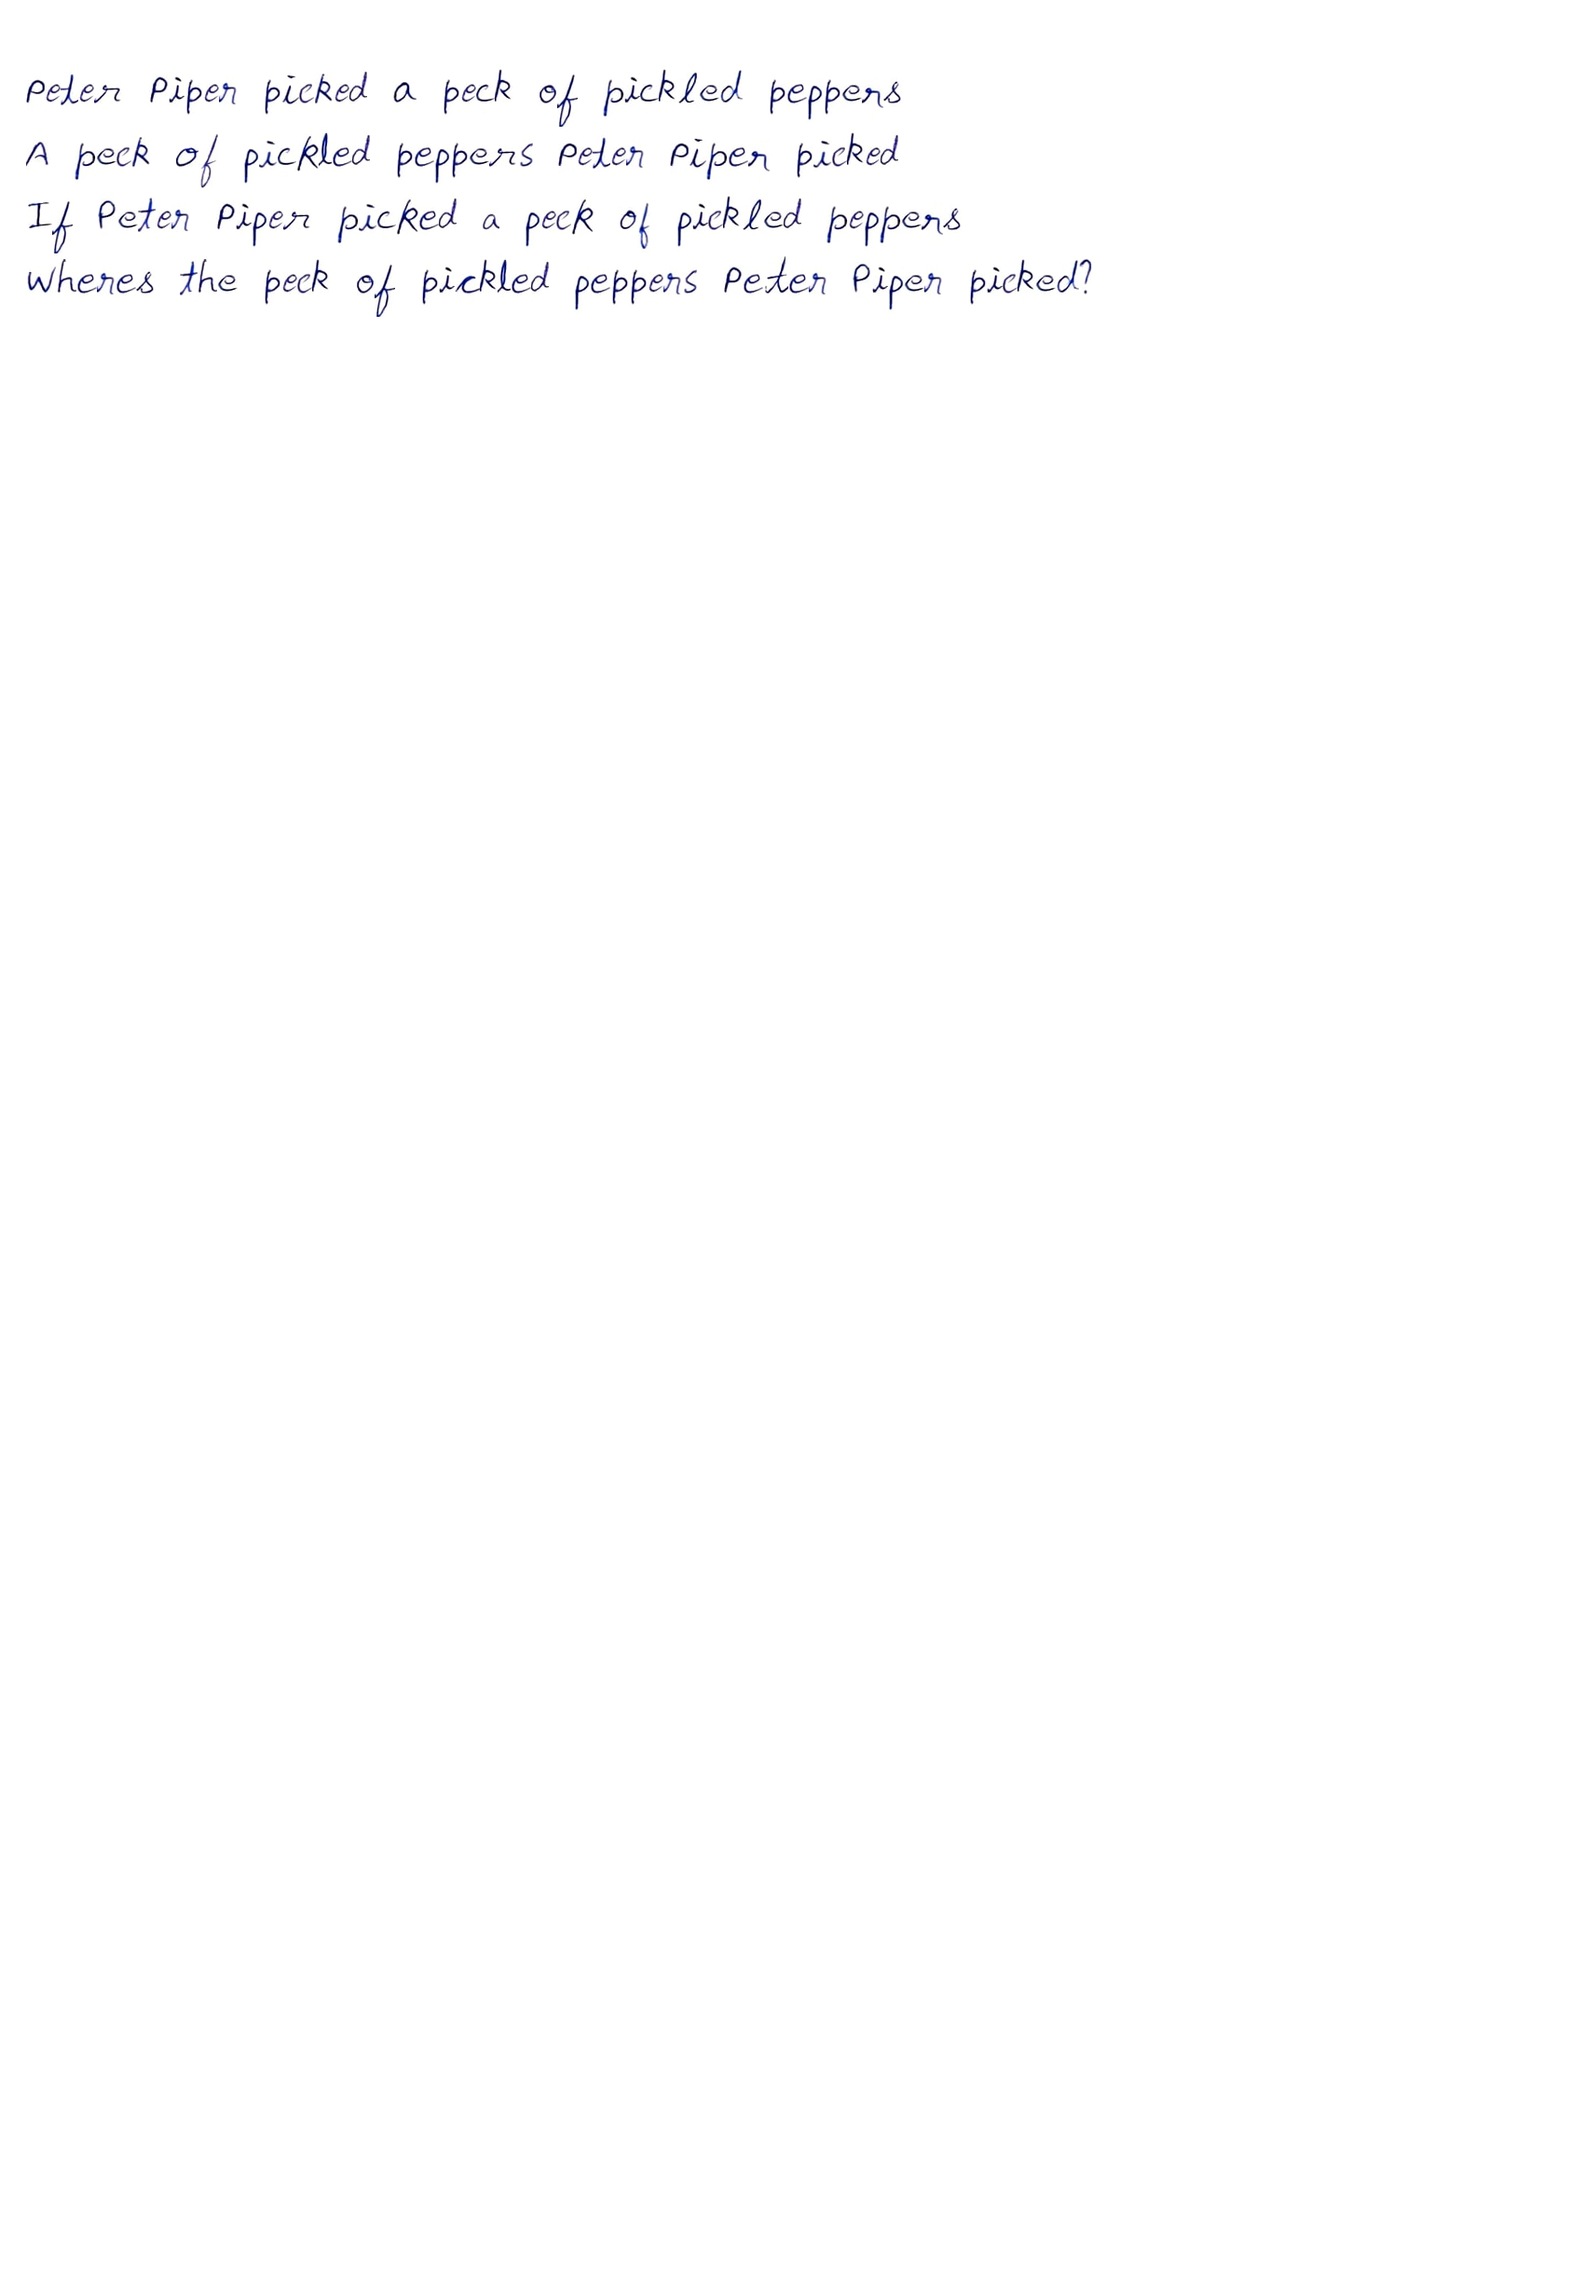
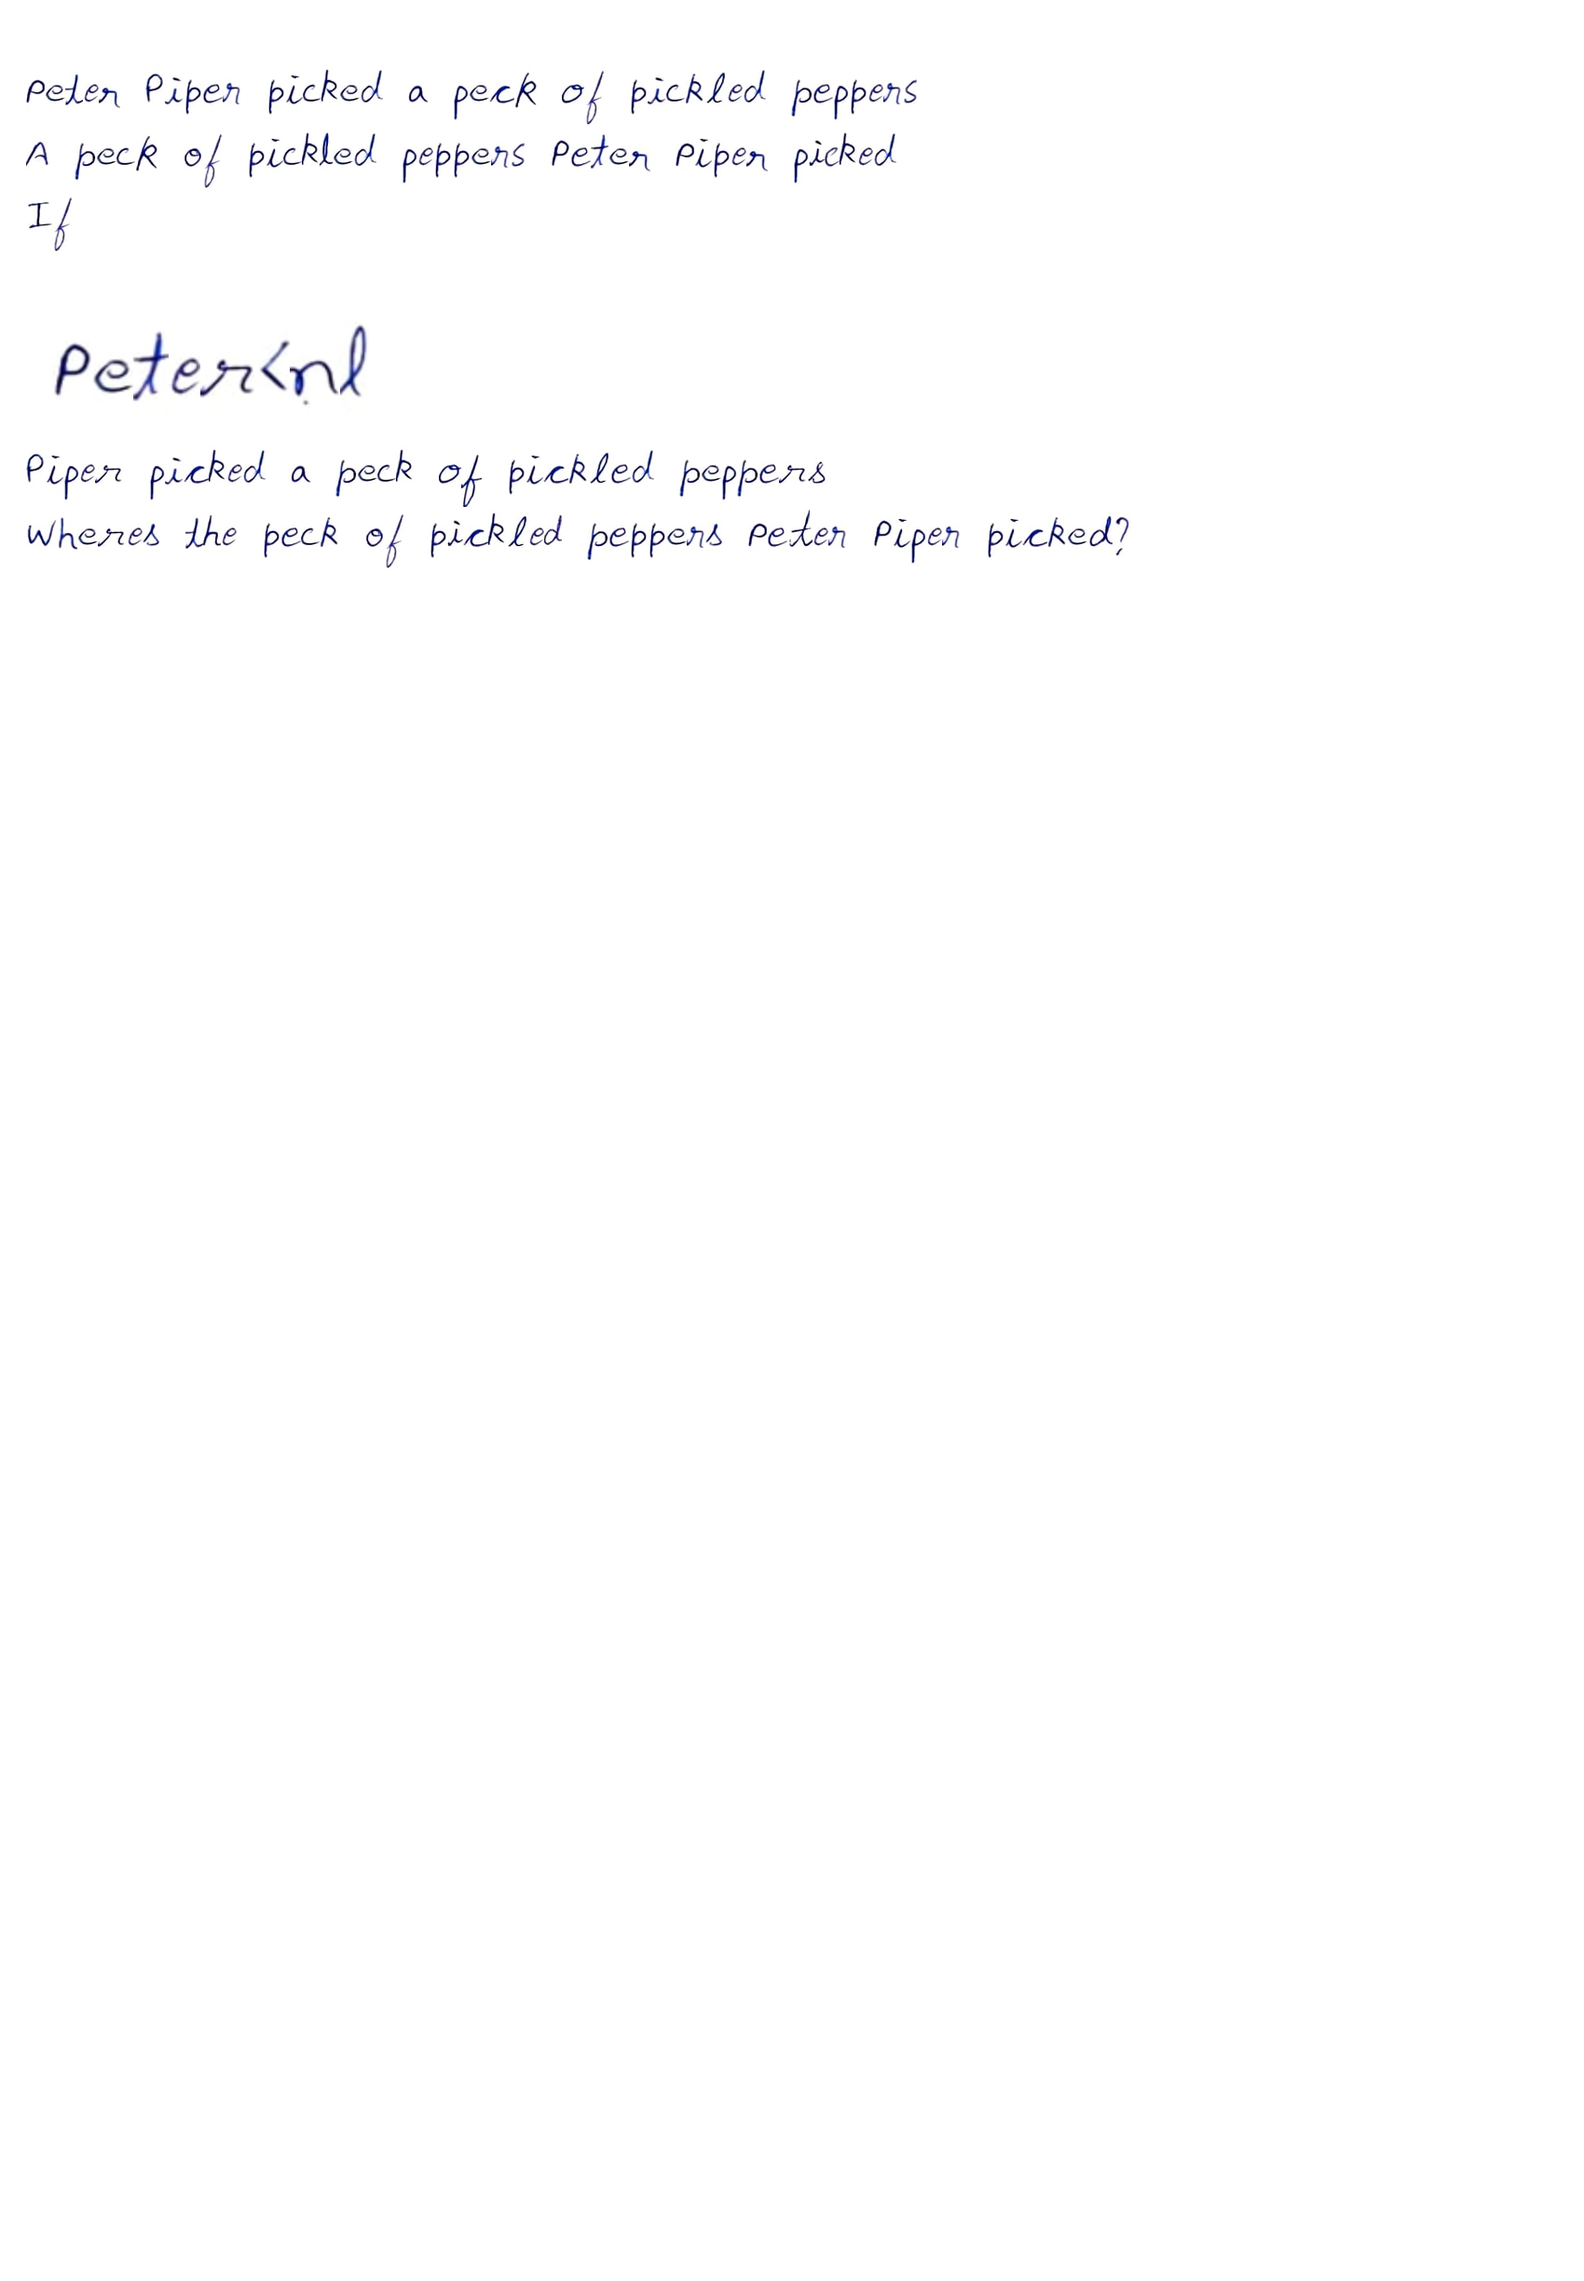
Made key start symbols customizable

diff --git a/main.py b/main.py
@@ -22,32 +22,34 @@ def main():
         # for all the words in a line
         for word in line.split():
             # initialise a blank word starting with a space if the key is not being read
-            if config.current_key_pipes_encountered == 0:
+            if config.current_key_symbols_encountered == 0:
                 initialise_word()
 
             # loop for each character in a word
             for n,character in enumerate(word):
 
-                # if a pipe is encountered, then key has started or closed
-                if character == "|":
-                    config.current_key_pipes_encountered += 1
+                # if a start/end symbol is encountered, then key has started or closed
+                if character == config.key_start_symbol:
+                    config.current_key_symbols_encountered = 1
+                elif character == config.key_end_symbol:
+                    config.current_key_symbols_encountered = 2
 
                 # if a key is being encountered then don't write it on paper,
                 # instead, put it in the pip key buffer for further analysis
-                if config.current_key_pipes_encountered > 0 and config.current_key_pipes_encountered < 3:
+                if config.current_key_symbols_encountered > 0 and config.current_key_symbols_encountered < 3:
                     config.pipe_key_buffer += character
                 else:
                     write_character(character)                      # write the character 
 
                 # if the last pipe is encountered then the key has ended
-                if config.current_key_pipes_encountered == 2:
+                if config.current_key_symbols_encountered == 2:
                     analyse_key()
-                    config.current_key_pipes_encountered = 0          # reset the pipe counter
+                    config.current_key_symbols_encountered = 0          # reset the pipe counter
                     config.pipe_key_buffer = ""         # reset the pipe key buffer
 
             # if the key has multiple words in its text, then don't write those words to the line, instead,
             # add a space between the words in the pipe key buffer
-            if config.current_key_pipes_encountered > 0 and config.current_key_pipes_encountered < 3:
+            if config.current_key_symbols_encountered > 0 and config.current_key_symbols_encountered < 3:
                     config.pipe_key_buffer += " "
             else:
                 write_word()

diff --git a/pipe_keys.py b/pipe_keys.py
@@ -143,30 +143,30 @@ def font_size() -> None:
 def analyse_key() -> None:
     '''analyse_key() -> None\n\nThis functions checks the pipe key buffer and performs the operation based on the pipe key encountered.'''
 
-    # if |nl| is encountered, then move to the new line
-    if re.search("\| *nl *\|",config.pipe_key_buffer):
+    # if nl key is encountered, then move to the new line
+    if re.search(config.key_start_symbol+" *nl *"+config.key_end_symbol,config.pipe_key_buffer):
         new_line()
     
-    # if |vs:n| is encountered, then skip n lines
-    if re.search("\| *vs *: *[0-9]*\|",config.pipe_key_buffer):
+    # if vs:n key is encountered, then skip n lines
+    if re.search(config.key_start_symbol+" *vs *: *[0-9]*"+config.key_end_symbol,config.pipe_key_buffer):
         vertical_space()
 
     # if |np| is encountered, then start with a new page
-    if re.search("\| *np *\|",config.pipe_key_buffer):
+    if re.search(config.key_start_symbol+" *np *"+config.key_end_symbol,config.pipe_key_buffer):
         new_page()
     
     # if |hs:n| is encountered
-    if re.search("\| *hs *: *[0-9]*\|", config.pipe_key_buffer):
+    if re.search(config.key_start_symbol+" *hs *: *[0-9]*"+config.key_end_symbol, config.pipe_key_buffer):
         horizontal_space()
     
     # if |ts:n| is encountered
-    if re.search("\| *ts *: *[0-9]*\|", config.pipe_key_buffer):
+    if re.search(config.key_start_symbol+" *ts *: *[0-9]*"+config.key_end_symbol, config.pipe_key_buffer):
         tab_space()
     
     # if |color: [R,G,B], TEXT| is encountered
-    if re.search("\| *color *: *\[ *.*,.*,.*\] *,.*\|",config.pipe_key_buffer):
+    if re.search(config.key_start_symbol+" *color *: *\[ *.*,.*,.*\] *,.*"+config.key_end_symbol,config.pipe_key_buffer):
         color()
     
     # if |fontsize: x, TEXT| is encountered
-    if re.search("\| *fontsize *: *.* *,.*\|",config.pipe_key_buffer):
+    if re.search(config.key_start_symbol+" *fontsize *: *.* *,.*"+config.key_end_symbol,config.pipe_key_buffer):
         font_size()

diff --git a/config.py b/config.py
@@ -5,9 +5,12 @@
 page_width = 1700                   # width of the page in pixels
 page_height = 2404                  # height of the page in pixels
 pipe_key_buffer = ""                # stores the characters after a pipe is encountered
-current_key_pipes_encountered = 0   # holds the number of pipes encountered in the current key
+current_key_symbols_encountered = 0   # holds the number of pipes encountered in the current key
 current_page_number = 1             # holds the current page number
-scale = 1
+scale = 1                           # the functions import an image and scale it according to this value
+key_start_symbol = "<"              # customizable key start symbol
+key_end_symbol = ">"                # customizable key end symbol
+
 
 # Image variables set to None ( Initially )
 current_character_img = None        # holds the image of the current character
